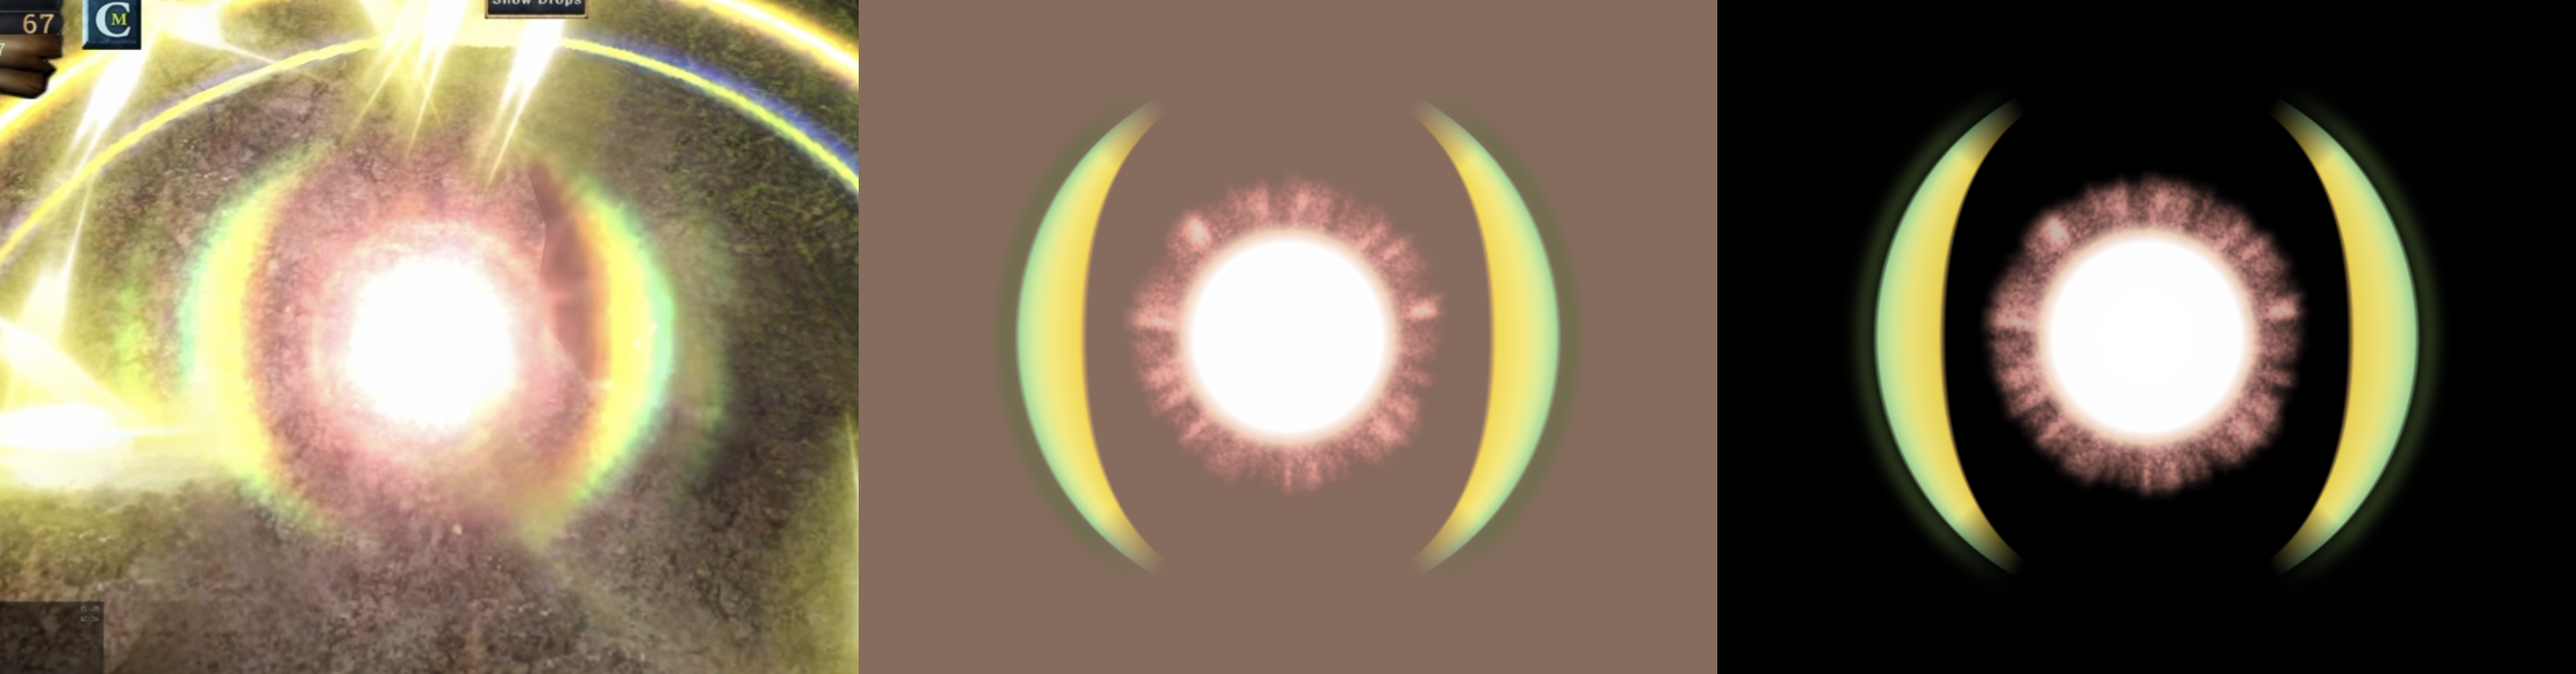
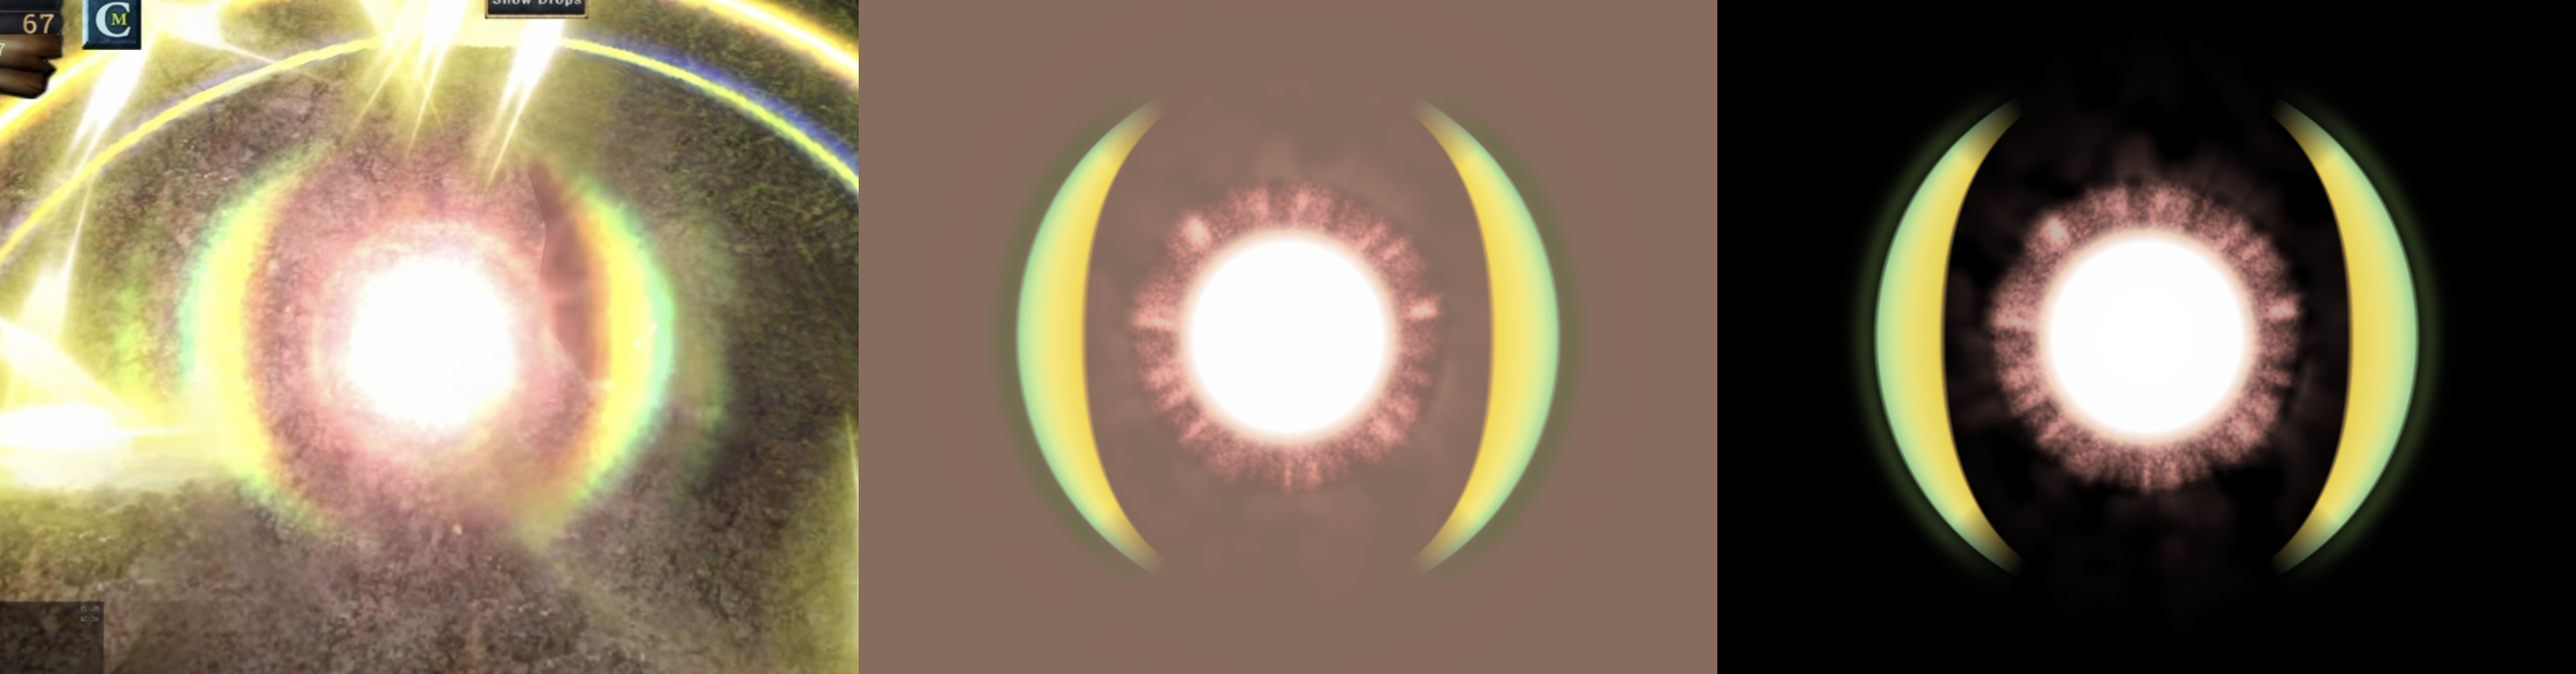
Efekt 10 küre: parantezlere kadar soluk süpernova yansıması (radyal lifler + bulutsu, uzaklaştıkça azalır)
Claude-Session: https://claude.ai/code/session_01E9c1WiJsMc9gXSJZ9D4z6g

diff --git a/arayuz/araclar/efekt10/kure.py b/arayuz/araclar/efekt10/kure.py
@@ -52,6 +52,17 @@ uzerine(np.clip(col,0,1),al)
 # titanyum beyaz: buyuk, opak; kenari seftaliye yumusak gecer
 col,al=interp(R,[(0,"#FFFFFF",1.0),(92,"#FEFEFE",1.0),(104,"#F8DBC3",0.85),(116,"#EBB8A8",0.0)])
 uzerine(col,al)
+# supernova yansimasi: seftaliden disari, parantezlere kadar cok soluk sicak isik; filamanli (radyal ince lifler + dalgali bulutsu), uzaklastikca azalir
+rg2=np.random.default_rng(13); fil=np.zeros((H,W),np.float32)
+for na,w_ in [(90,1.0),(180,0.6),(360,0.35)]:
+    z=ndimage.gaussian_filter1d(rg2.standard_normal(na+1).astype(np.float32),0.8,mode="wrap"); z[-1]=z[0]
+    za=th*na; i0=np.floor(za).astype(int)%na; f=za-np.floor(za); fil+=w_*(z[i0]*(1-f)+z[(i0+1)%na]*f)
+fil=np.clip(0.5+0.35*fil,0,1)                                                 # radyal lifler (acıya gore)
+bulut=np.clip(0.6+0.4*ndimage.gaussian_filter(fbm(17,[16,32],[1.0,0.7]),4),0,1) # dalgali bulutsu
+uz=np.clip((R-150)/12,0,1)*np.exp(-np.clip(R-158,0,None)/58)                    # seftali kenarindan disari azalir
+sn_al=0.28*uz*(0.45+0.55*fil)*bulut*np.clip(1-((R-150)/210)**2,0,1)
+sn_col=np.stack([np.interp(R,[150,200,260,330],[rk(c)[k] for c in ("#E8A89C","#D49084","#B87A74","#9A6A66")]) for k in range(3)],-1)
+uzerine(sn_col,sn_al)
 # parantezler: dis kenar sabit yay, ic kenar ortada iceri siskin (sari kisim parantezin icinde -> orta kalin), uclar incelip solar
 yan=np.abs(np.cos(A)); aci=np.degrees(np.arccos(np.clip(yan,0,1)))
 uc=np.clip((62-aci)/18,0,1)**1.2
